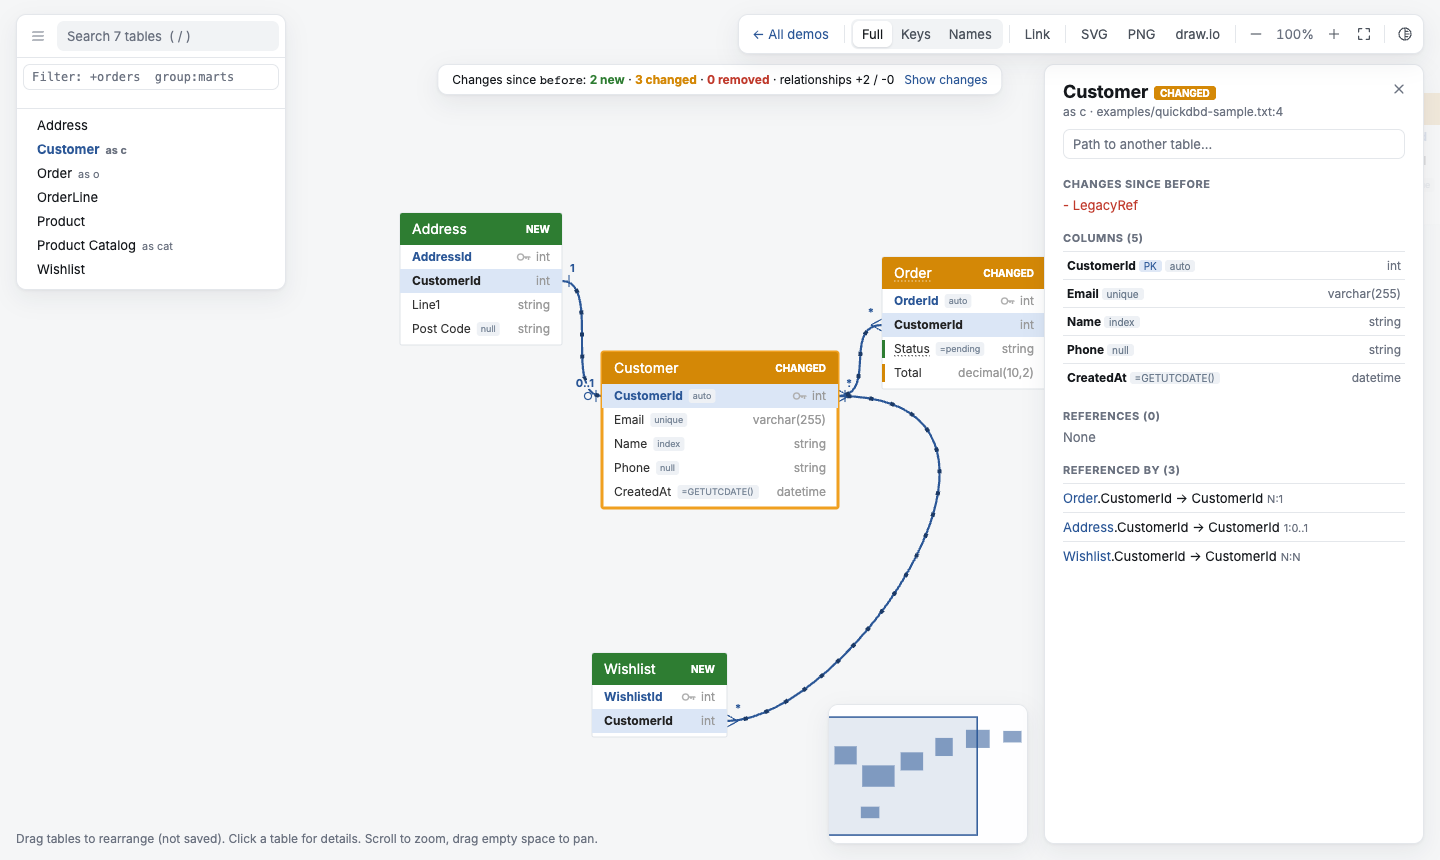
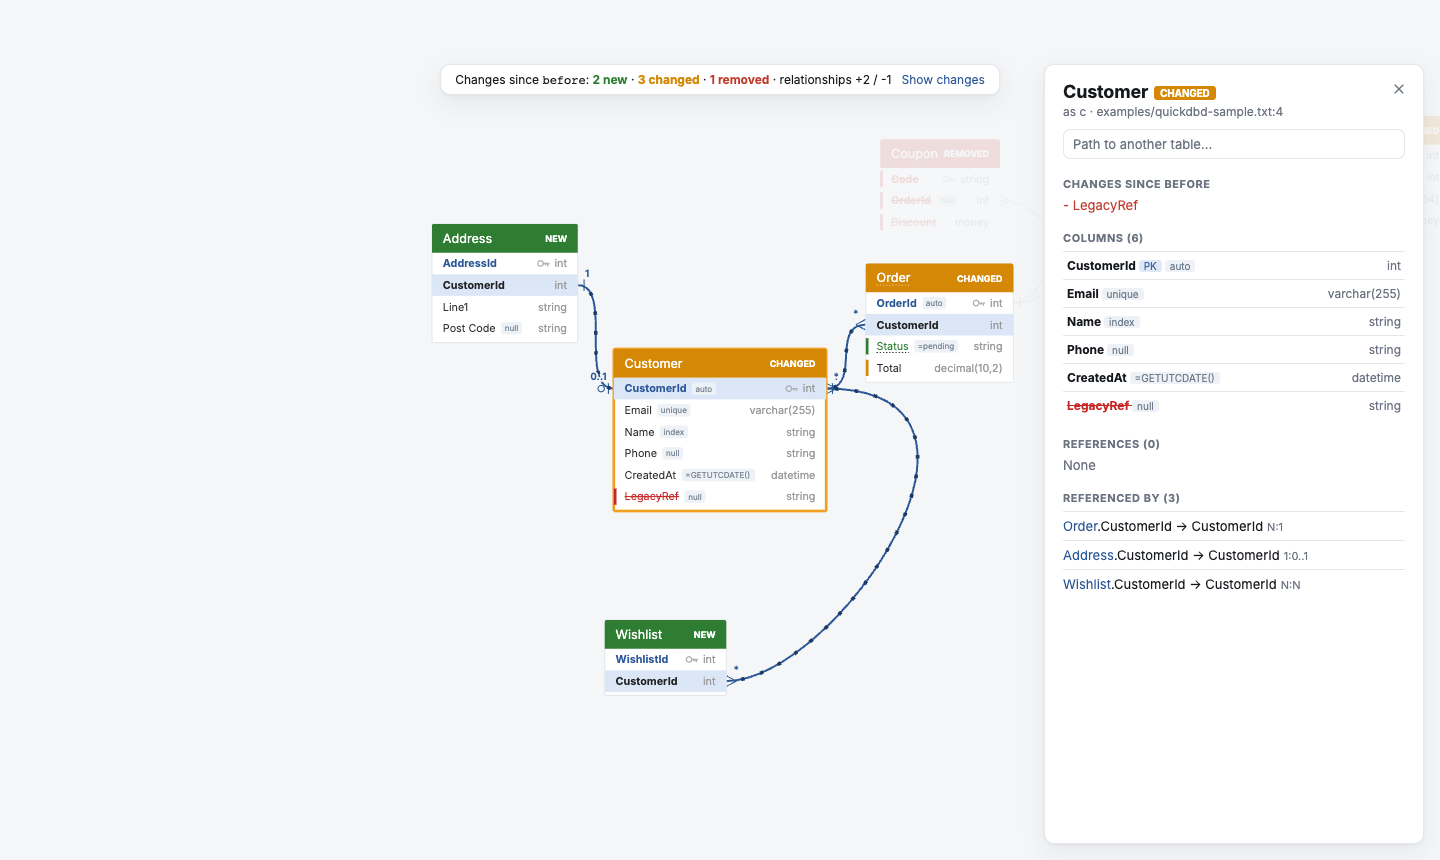
Diff view draws removed tables and columns; serve listed before build; build --by-group counts regions. Release 0.6.9
- --diff-base (build, serve, gallery) copies removed tables and columns in from the base schema:
  red header / red struck-through names, added columns named in green. Removed tables are placed
  next to their old neighbours and never written to the layout sidecar.
- Details panel marks added/removed columns; banner's Show changes also covers removals.
- qdbd -h and docs/cli.md list serve right after check.
- build --by-group's Wrote line counts regions.
- Docs, README, home page, diff demo (now with a removed table) and its images updated.

diff --git a/src/quickdbd_cli/assets/render.js b/src/quickdbd_cli/assets/render.js
@@ -20,6 +20,7 @@
     edge: "#b8bcc2",
     added: "#2e7d32",
     changed: "#d48806",
+    removed: "#c62828",
   };
   var FONT = "Inter, 'Helvetica Neue', Helvetica, Arial, sans-serif";
 
@@ -90,11 +91,11 @@
     var st = model.style, w = g.w, h = g.h, out = [];
     out.push('<g class="t" data-id="' + esc(t.id) + '" transform="translate(' + n(p[0]) + "," + n(p[1]) + ')">');
     out.push('<rect class="tb" width="' + w + '" height="' + h + '" rx="2" fill="' + C.body + '" stroke="' + C.border + '"/>');
-    var state = t.diff && t.diff.state, hcol = state === "added" ? C.added : state === "changed" ? C.changed : t.color || C.header;
+    var state = t.diff && t.diff.state, hcol = state ? C[state] : t.color || C.header;
     out.push('<path class="th" d="M0 2a2 2 0 0 1 2-2h' + (w - 4) + "a2 2 0 0 1 2 2v" + (st.headerH - 2) + "h-" + w + 'z" fill="' + hcol + '"/>');
     if (state) {
       out.push('<text x="' + (w - st.padX) + '" y="' + n(st.headerH / 2 + 4) + '" text-anchor="end" fill="#fff" font-family="' + FONT +
-        '" font-size="10" font-weight="bold">' + (state === "added" ? "NEW" : "CHANGED") + "</text>");
+        '" font-size="10" font-weight="bold">' + { added: "NEW", changed: "CHANGED", removed: "REMOVED" }[state] + "</text>");
     }
     var light = isLight(hcol); // a pale DBML headercolor or tag colour: dark text on it
     out.push('<text class="tn" x="' + st.padX + '" y="' + n(st.headerH / 2 + st.headerSize * 0.36) + '" fill="' + (light ? C.text : C.headerText) +
@@ -105,7 +106,10 @@
     g.cols.forEach(function (c, i) {
       var y = st.headerH + i * st.rowH, cy = y + st.rowH / 2, base = n(cy + st.rowSize * 0.36);
       var weight = c.pk || c.fk ? ' font-weight="bold"' : "";
-      var color = c.color || (c.pk ? C.pk : c.fk ? C.fk : C.text), rn = c.pk ? "rn rpk" : c.fk ? "rn rfk" : "rn";
+      // diff: added/removed columns (and every column of a removed table) are named in green/red, removed struck through
+      var cstate = state === "removed" ? "removed" : t.diff && t.diff.cols && t.diff.cols[c.id];
+      var dcol = cstate === "added" || cstate === "removed" ? C[cstate] : null;
+      var color = dcol || c.color || (c.pk ? C.pk : c.fk ? C.fk : C.text), rn = c.pk ? "rn rpk" : c.fk ? "rn rfk" : "rn";
       out.push('<g class="r" data-c="' + esc(c.id) + '">');
       // a tagged column: tinted row and a bar in the tag colour (a diff bar, drawn next, covers the bar)
       if (c.color) {
@@ -113,12 +117,11 @@
         out.push('<rect y="' + (y + 3) + '" width="3" height="' + (st.rowH - 6) + '" fill="' + c.color + '"/>');
       }
       out.push('<rect class="rb" y="' + y + '" width="' + w + '" height="' + st.rowH + '" fill="' + C.body + '" fill-opacity="0"/>');
-      var cstate = t.diff && t.diff.cols && t.diff.cols[c.id];
       if (cstate) out.push('<rect y="' + (y + 3) + '" width="3" height="' + (st.rowH - 6) + '" fill="' + C[cstate] + '"/>');
-      out.push('<text class="' + rn + '" x="' + st.padX + '" y="' + base + '" fill="' + color + '"' + (c.color ? ' style="fill:' + c.color + '"' : "") +
+      out.push('<text class="' + rn + '" x="' + st.padX + '" y="' + base + '" fill="' + color + '"' + (dcol || c.color ? ' style="fill:' + color + '"' : "") +
         ' font-family="' + FONT + '" font-size="' + st.rowSize + '"' + weight + ">" + esc(c.name) + "</text>");
       if (docMarks && c.doc) out.push(docMark(st.padX, cy + st.rowSize * 0.36 + 2.5, c.nameW, color));
-      if (c.tags && c.tags.indexOf("removed") >= 0) {
+      if (cstate === "removed" || (c.tags && c.tags.indexOf("removed") >= 0)) {
         out.push('<line x1="' + st.padX + '" y1="' + n(cy) + '" x2="' + n(st.padX + c.nameW) + '" y2="' + n(cy) + '" stroke="' + color + '" stroke-width="1.2"/>');
       }
       var bx = st.padX + c.nameW + 6;

diff --git a/src/quickdbd_cli/assets/viewer.js b/src/quickdbd_cli/assets/viewer.js
@@ -703,7 +703,7 @@
       if (parent.t === id) back.push(backItem(t, parent, child));
     });
     out.push("<h2>" + Q.esc(t.name) + (t.diff ? '<span class="state ' + t.diff.state + '">' +
-      (t.diff.state === "added" ? "NEW" : "CHANGED") + "</span>" : "") + "</h2>");
+      { added: "NEW", changed: "CHANGED", removed: "REMOVED" }[t.diff.state] + "</span>" : "") + "</h2>");
     var meta = [];
     if (t.aliases.length) meta.push("as " + Q.esc(t.aliases.join(", ")));
     if (t.file) {
@@ -727,12 +727,12 @@
       t.cols.forEach(function (c) {
         var cs = t.diff.cols[c.id];
         if (cs === "added") ch.push('<div class="chg"><span class="add">+ ' + Q.esc(c.name) + "</span></div>");
+        else if (cs === "removed") ch.push('<div class="chg"><span class="del">- ' + Q.esc(c.name) + "</span></div>");
         else if (cs === "changed") {
           ch.push('<div class="chg"><span class="mod">~ ' + Q.esc(c.name) + "</span>: " +
             Q.esc((t.diff.changes[c.name] || []).join("; ")) + "</div>");
         }
       });
-      (t.diff.removedCols || []).forEach(function (n) { ch.push('<div class="chg"><span class="del">- ' + Q.esc(n) + "</span></div>"); });
       out.push("<h3>Changes since " + Q.esc(base) + "</h3>" + ch.join(""));
     }
     out.push("<h3>Columns (" + t.cols.length + ")</h3><table>");
@@ -745,7 +745,8 @@
         var tc = (S.model.tags || []).filter(function (x) { return x.name === g; })[0];
         tags.push('<a class="ttag" data-tag="' + Q.esc(g) + '" style="background:' + Q.esc(tc ? tc.color : "#2b5797") + '">' + Q.esc(g) + "</a>");
       });
-      out.push('<tr><td class="cn">' + Q.esc(c.name) + " " + tags.join("") + (c.doc ? '<div class="cd">' + Q.esc(c.doc) + "</div>" : "") +
+      var ds = t.diff && (t.diff.state === "removed" ? "removed" : t.diff.cols && t.diff.cols[c.id]);
+      out.push("<tr" + (ds ? ' class="d-' + ds + '"' : "") + '><td class="cn">' + Q.esc(c.name) + " " + tags.join("") + (c.doc ? '<div class="cd">' + Q.esc(c.doc) + "</div>" : "") +
         '</td><td class="ct">' + Q.esc(c.type) + "</td></tr>");
     });
     out.push("</table>");
@@ -957,7 +958,7 @@
       '<b class="add">' + d.added + " new</b> &middot; " + '<b class="chg">' + d.changed + " changed</b> &middot; " +
       '<b class="del" title="' + Q.esc(removed.join(", ") || "none") + '">' + removed.length + " removed</b>" +
       " &middot; relationships +" + d.relsAdded.length + " / -" + d.relsRemoved.length +
-      (d.added + d.changed ? '<a id="diffonly">Show changes</a>' : "");
+      (d.added + d.changed + removed.length ? '<a id="diffonly">Show changes</a>' : "");
     bar.classList.add("open");
   }
   document.getElementById("diffbar").addEventListener("click", function (ev) {

diff --git a/overrides/home.html b/overrides/home.html
@@ -350,12 +350,12 @@ qdbd path erd/ --from Invoice --to Campaign</pre>
     <ul class="qh-list">
       <li><code>qdbd diff --base origin/main erd/</code> lists added, removed and changed tables, columns and relationships.</li>
       <li>The GitHub Action posts it as one comment per pull request, updated on every push.</li>
-      <li><code>qdbd build --diff-base origin/main</code> colours the changes in the diagram: new in green, changed in amber.</li>
+      <li><code>qdbd build --diff-base origin/main</code> colours the changes in the diagram: new in green, changed in amber, removed in red.</li>
     </ul>
     <figure class="qh-figure">
       <div class="qh-fig">
       <div class="qh-pr__stage">
-        <a href="{{ 'demo/diff/' | url }}"><img src="{{ 'assets/img/diff.png' | url }}" alt="A qdbd diagram with new tables in green and changed tables in amber" loading="lazy"></a>
+        <a href="{{ 'demo/diff/' | url }}"><img src="{{ 'assets/img/diff.png' | url }}" alt="A qdbd diagram with new tables in green, changed tables in amber and a removed table in red" loading="lazy"></a>
         <div class="qh-comment">
           <div class="qh-comment__head"><b>github-actions</b> commented</div>
           <div class="qh-comment__body">

diff --git a/src/quickdbd_cli/assets/style.css b/src/quickdbd_cli/assets/style.css
@@ -277,11 +277,14 @@ html, body { margin: 0; height: 100%; background: var(--bg); color: var(--ink);
 .details .chg { margin: 4px 0; }
 .details .chg .add { color: #2e7d32; }
 .details .chg .del { color: #c0392b; }
+.details tr.d-added .cn { color: #2e7d32; }
+.details tr.d-removed .cn { color: #c62828; text-decoration: line-through; }
 .details .chg .mod { color: #b07000; }
 .details .state { display: inline-block; font-size: 10px; font-weight: bold; color: #fff; border-radius: 3px; padding: 1px 6px;
   margin-left: 6px; vertical-align: middle; }
 .details .state.added { background: #2e7d32; }
 .details .state.changed { background: #d48806; }
+.details .state.removed { background: #c62828; }
 
 /* doc-comment tooltip */
 .tip { position: absolute; display: none; max-width: 340px; background: var(--tip-bg); color: #eef0f2; border-radius: 8px;

diff --git a/src/quickdbd_cli/cli.py b/src/quickdbd_cli/cli.py
@@ -9,7 +9,7 @@ import os
 import sys
 from pathlib import Path
 
-from . import __version__
+from . import __version__, layout
 from .layout import SidecarError
 from .model import Diagnostic, Schema, counts
 from .project import Project, SelectionError, SourceError, read_source, selector_expr
@@ -146,7 +146,9 @@ def _built_page(args) -> tuple[str, dict] | int:
 
             model, pos = project.build(schema, by_group=args.by_group)
             old = diff.schema_at_ref(args.diff_base, project.inputs)
-            diff.annotate_model(model, diff.diff_schemas(old, schema), args.diff_base)
+            diff.annotate_model(model, old, diff.diff_schemas(old, schema), args.diff_base)
+            # removed tables were not laid out: put them next to their old neighbours
+            pos = {k: list(v) for k, v in layout.place_missing(model["tables"], model["rels"], pos).items()}
             expr = selector_expr(args.select, args.exclude)
             if expr:
                 from .project import select_model
@@ -166,6 +168,15 @@ def _built_page(args) -> tuple[str, dict] | int:
             return 2
         raise
     return render_page(model, pos, _title(project)), model
+
+
+def _summary(model: dict) -> str:
+    """Table and relationship counts, plus the region count when ``--by-group`` drew regions."""
+    s = counts(len(model["tables"]), len(model["rels"]))
+    if model.get("regions"):
+        n = len({t["group"] for t in model["tables"] if t.get("group")})
+        s += f", {n} region{'s' * (n != 1)}"
+    return s
 
 
 def _build_site(args) -> int:
@@ -205,7 +216,7 @@ def _build_site(args) -> int:
     for name, page, model in pages:
         (out / f"{name}.html").write_text(page, encoding="utf-8")
         index.append((name, quote(f"{name}.html"), len(model["tables"]), len(model["rels"])))
-        print(f"Wrote {out / f'{name}.html'} ({counts(len(model['tables']), len(model['rels']))})")
+        print(f"Wrote {out / f'{name}.html'} ({_summary(model)})")
     (out / "index.html").write_text(render_index(index), encoding="utf-8")
     print(f"Wrote {out / 'index.html'} ({len(pages)} diagrams)")
     return 0
@@ -221,7 +232,7 @@ def cmd_build(args) -> int:
     out = Path(args.output)
     out.parent.mkdir(parents=True, exist_ok=True)
     out.write_text(page, encoding="utf-8")
-    print(f"Wrote {out} ({counts(len(model['tables']), len(model['rels']))})")
+    print(f"Wrote {out} ({_summary(model)})")
     return 0
 
 
@@ -652,6 +663,26 @@ def build_parser() -> argparse.ArgumentParser:
     )
     sp.set_defaults(func=cmd_check)
 
+    sp = sub.add_parser("serve", help="live editor: reload on save, drag tables to arrange")
+    paths(sp)
+    sp.add_argument("--port", type=int, help="port to listen on (default: 8765, or the next free one)")
+    sp.add_argument("--layout", help="layout sidecar file (default: next to the schema)")
+    sp.add_argument("--no-open", action="store_true", help="don't open a browser")
+    sp.add_argument(
+        "--read-only",
+        action="store_true",
+        help="live view only: no editor, nothing saved; viewers can't change anything",
+    )
+    sp.add_argument(
+        "--embed",
+        action="store_true",
+        help="for the VS Code extension's preview: no editor pane, dragging saves the layout",
+    )
+    sp.add_argument(
+        "--diff-base", metavar="GIT_REF", help="colour tables/columns changed since this git ref (e.g. origin/main)"
+    )
+    sp.set_defaults(func=cmd_serve)
+
     sp = sub.add_parser("build", help="write an interactive HTML diagram")
     paths(sp)
     out = sp.add_mutually_exclusive_group()
@@ -759,26 +790,6 @@ def build_parser() -> argparse.ArgumentParser:
         "-o", "--output", help="output file, or a directory (keeps relative paths; DBML TableGroups become files)"
     )
     sp.set_defaults(func=cmd_convert)
-
-    sp = sub.add_parser("serve", help="live editor: reload on save, drag tables to arrange")
-    paths(sp)
-    sp.add_argument("--port", type=int, help="port to listen on (default: 8765, or the next free one)")
-    sp.add_argument("--layout", help="layout sidecar file (default: next to the schema)")
-    sp.add_argument("--no-open", action="store_true", help="don't open a browser")
-    sp.add_argument(
-        "--read-only",
-        action="store_true",
-        help="live view only: no editor, nothing saved; viewers can't change anything",
-    )
-    sp.add_argument(
-        "--embed",
-        action="store_true",
-        help="for the VS Code extension's preview: no editor pane, dragging saves the layout",
-    )
-    sp.add_argument(
-        "--diff-base", metavar="GIT_REF", help="colour tables/columns changed since this git ref (e.g. origin/main)"
-    )
-    sp.set_defaults(func=cmd_serve)
 
     sp = sub.add_parser(
         "mcp",

diff --git a/src/quickdbd_cli/diff.py b/src/quickdbd_cli/diff.py
@@ -12,6 +12,7 @@ import subprocess
 from dataclasses import dataclass, field
 from pathlib import Path
 
+from .measure import STYLE, model_json, row_width
 from .model import VIRTUAL_FIELD, Column, Relationship, Schema
 from .parser import compile_sources
 
@@ -245,16 +246,27 @@ def format_json(d: SchemaDiff) -> str:
 # --------------------------------------------------------------------------- annotate the diagram model
 
 
-def annotate_model(model: dict, d: SchemaDiff, base_label: str) -> dict:
-    """Add ``diff`` markers so render.js colours added/changed tables and columns."""
+def annotate_model(model: dict, old: Schema, d: SchemaDiff, base_label: str) -> dict:
+    """Add ``diff`` markers so render.js colours added/changed/removed tables and columns.
+
+    Removed tables and columns are copied in from ``old`` so they can be drawn (struck through, in red).
+    """
     added = set(d.added)
     changed = {c.name: c for c in d.changed}
+    old_model = model_json(old)
+    base = {t["name"]: t for t in old_model["tables"]}
     for t in model["tables"]:
         if t["name"] in added:
             t["diff"] = {"state": "added"}
         elif t["name"] in changed:
             c = changed[t["name"]]
             cols = {}
+            for i, col in enumerate(base[t["name"]]["cols"]):  # at their old index
+                if col["name"] in c.removed_cols:
+                    t["cols"].insert(min(i, len(t["cols"])), col)
+                    cols[col["id"]] = "removed"
+                    t["w"] = max(t["w"], round(row_width(col)))
+                    t["h"] += STYLE["rowH"]
             for col in t["cols"]:
                 if col["name"] in c.added_cols:
                     cols[col["id"]] = "added"
@@ -263,9 +275,16 @@ def annotate_model(model: dict, d: SchemaDiff, base_label: str) -> dict:
             t["diff"] = {
                 "state": "changed",
                 "cols": cols,
-                "removedCols": c.removed_cols,
                 "changes": {k: v for k, v in c.changed_cols.items()},
             }
+    for name in d.removed:
+        model["tables"].append({**base[name], "diff": {"state": "removed"}})
+    # relationships of removed tables, where both ends are still drawn
+    gone = {base[name]["id"] for name in d.removed}
+    cols = {(t["id"], c["id"]) for t in model["tables"] for c in t["cols"]}
+    for r in old_model["rels"]:
+        if gone & {r["a"]["t"], r["b"]["t"]} and all((e["t"], e["c"]) in cols for e in (r["a"], r["b"])):
+            model["rels"].append(r)
     model["diff"] = {
         "base": base_label,
         "added": len(d.added),

diff --git a/tests/test_diff.py b/tests/test_diff.py
@@ -118,7 +118,9 @@ def test_build_diff_base_marks_model(repo, capsys):
     tables = {t["name"]: t for t in data["model"]["tables"]}
     assert tables["products"]["diff"] == {"state": "added"}
     assert tables["customers"]["diff"]["state"] == "changed"
-    assert tables["customers"]["diff"]["removedCols"] == ["legacy_flag"]
+    legacy = next(c for c in tables["customers"]["cols"] if c["name"] == "legacy_flag")
+    assert tables["customers"]["diff"]["cols"][legacy["id"]] == "removed"
+    assert tables["audit"]["diff"] == {"state": "removed"}  # drawn, in red
     assert "diff" not in tables["orders"] or tables["orders"]["diff"]["state"] == "changed"
     assert data["model"]["diff"]["removed"] == ["audit"]
     # diff: selector works with the annotations
@@ -137,7 +139,8 @@ def test_serve_diff_base_colours_the_live_model(repo):
     server.server_close()
     tables = {t["name"]: t for t in state.model["tables"]}
     assert tables["products"]["diff"] == {"state": "added"}
-    assert tables["customers"]["diff"]["removedCols"] == ["legacy_flag"]
+    assert "legacy_flag" in [c["name"] for c in tables["customers"]["cols"]]
+    assert tables["audit"]["diff"] == {"state": "removed"} and "audit" in state.positions
     assert state.model["diff"]["base"] == "main" and state.model["diff"]["removed"] == ["audit"]
     # Edits are compared with the same base: back to the base text, nothing is marked.
     f = repo / "erd" / "core.txt"

diff --git a/tests/test_tags.py b/tests/test_tags.py
@@ -159,10 +159,22 @@ def test_svg_and_drawio_use_the_tag_colour(model):
 def test_diff_colour_wins_over_tag():
     old = compile_text("A\n-\nid int\n")
     new = compile_text("A\n-\nid int\n\ndim_b\n-\nid int\n")
-    m = annotate_model(model_json(new), diff_schemas(old, new), "main")
+    m = annotate_model(model_json(new), old, diff_schemas(old, new), "main")
     b = next(t for t in m["tables"] if t["name"] == "dim_b")
     svg = render_svg(m, {"A": [0, 0], "dim_b": [300, 0]}, only=["dim_b"], embed_font=False)
     assert b["color"] == DEFAULT_COLORS["dim"] and "#2e7d32" in svg and DEFAULT_COLORS["dim"] not in svg
+
+
+def test_diff_draws_removed_tables_and_columns():
+    old = compile_text("A\n-\nid int\ngone_col int\n\nB\n-\nid int\na_id int FK >- A.id\n")
+    new = compile_text("A\n-\nid int\nnew_col int\n")
+    m = annotate_model(model_json(new), old, diff_schemas(old, new), "main")
+    a, b = (next(t for t in m["tables"] if t["name"] == n) for n in "AB")
+    assert [c["name"] for c in a["cols"]] == ["id", "gone_col", "new_col"]
+    assert b["diff"] == {"state": "removed"} and len(m["rels"]) == 1  # B's relationship to A is still drawn
+    svg = render_svg(m, {"A": [0, 0], "B": [300, 0]}, embed_font=False)
+    assert svg.count("#c62828") >= 4  # B's header, its two column names, gone_col
+    assert 'style="fill:#2e7d32"' in svg  # new_col named in green
 
 
 COLUMNS = """# @color pii #ff9800

diff --git a/src/quickdbd_cli/measure.py b/src/quickdbd_cli/measure.py
@@ -86,17 +86,21 @@ def _column_json(col: Column) -> dict:
     return out
 
 
+def row_width(c: dict) -> float:
+    """Width a column row needs: name, badges, key icon and type."""
+    s = STYLE
+    row = c["nameW"] + c["typeW"] + 2 * s["padX"] + s["gap"]
+    row += sum(b["w"] + s["badgeGap"] for b in c["badges"])
+    return row + (s["keyW"] if c["pk"] else 0)
+
+
 def table_json(table: Table) -> dict:
     s = STYLE
     cols = [_column_json(c) for c in table.columns.values() if not c.virtual]
     name_w = text_width(table.name, s["headerSize"])
     w = name_w + 2 * s["padX"]
     for c in cols:
-        row = c["nameW"] + c["typeW"] + 2 * s["padX"] + s["gap"]
-        row += sum(b["w"] + s["badgeGap"] for b in c["badges"])
-        if c["pk"]:
-            row += s["keyW"]
-        w = max(w, row)
+        w = max(w, row_width(c))
     w = max(round(w), s["minW"])
     h = s["headerH"] + len(cols) * s["rowH"] + s["bottomPad"]
     out = {"id": table.id, "name": table.name, "aliases": table.aliases, "w": w, "h": h, "nameW": name_w, "cols": cols}

diff --git a/scripts/build_gallery.py b/scripts/build_gallery.py
@@ -16,7 +16,7 @@ import tomllib
 from dataclasses import dataclass, field
 from pathlib import Path
 
-from quickdbd_cli import __version__, diff
+from quickdbd_cli import __version__, diff, layout
 from quickdbd_cli.dbt import import_dbt
 from quickdbd_cli.export import font_css
 from quickdbd_cli.html import _escape, _json_for_script, favicon, render_page
@@ -147,7 +147,8 @@ def build_demo(d: Demo) -> tuple[str, dict]:
     model, pos = project.build(schema, by_group=by_group)
     if d.diff_before:
         old = _compile(Project.open([Path(d.diff_before)]).sources(), f"{d.id} diff_before")
-        diff.annotate_model(model, diff.diff_schemas(old, schema), "before")
+        diff.annotate_model(model, old, diff.diff_schemas(old, schema), "before")
+        pos = {k: list(v) for k, v in layout.place_missing(model["tables"], model["rels"], pos).items()}
     page = render_page(model, pos, d.title)
     return page.replace('<div class="bar">', '<div class="bar">' + BACK_LINK, 1), model
 

diff --git a/src/quickdbd_cli/serve.py b/src/quickdbd_cli/serve.py
@@ -83,7 +83,7 @@ class State:
             self.mtimes = mtimes
             self.diagnostics = diags
             if self.base is not None and not schema.errors:
-                diff.annotate_model(model, diff.diff_schemas(self.base, schema), self.diff_base)
+                diff.annotate_model(model, self.base, diff.diff_schemas(self.base, schema), self.diff_base)
             base = layout.read_sidecar(self.project.sidecar)
             current = {
                 t["name"]: tuple(self.positions[t["id"]]) for t in self.model["tables"] if t["id"] in self.positions

diff --git a/src/quickdbd_cli/project.py b/src/quickdbd_cli/project.py
@@ -116,7 +116,11 @@ class Project:
         return model, {k: [v[0], v[1]] for k, v in pos.items()}
 
     def save_positions(self, model: dict, positions: dict) -> None:
-        by_name = {t["name"]: tuple(positions[t["id"]]) for t in model["tables"] if t["id"] in positions}
+        by_name = {
+            t["name"]: tuple(positions[t["id"]])
+            for t in model["tables"]
+            if t["id"] in positions and t.get("diff", {}).get("state") != "removed"  # gone, only drawn by a diff
+        }
         layout.write_sidecar(self.sidecar, by_name)
 
 
